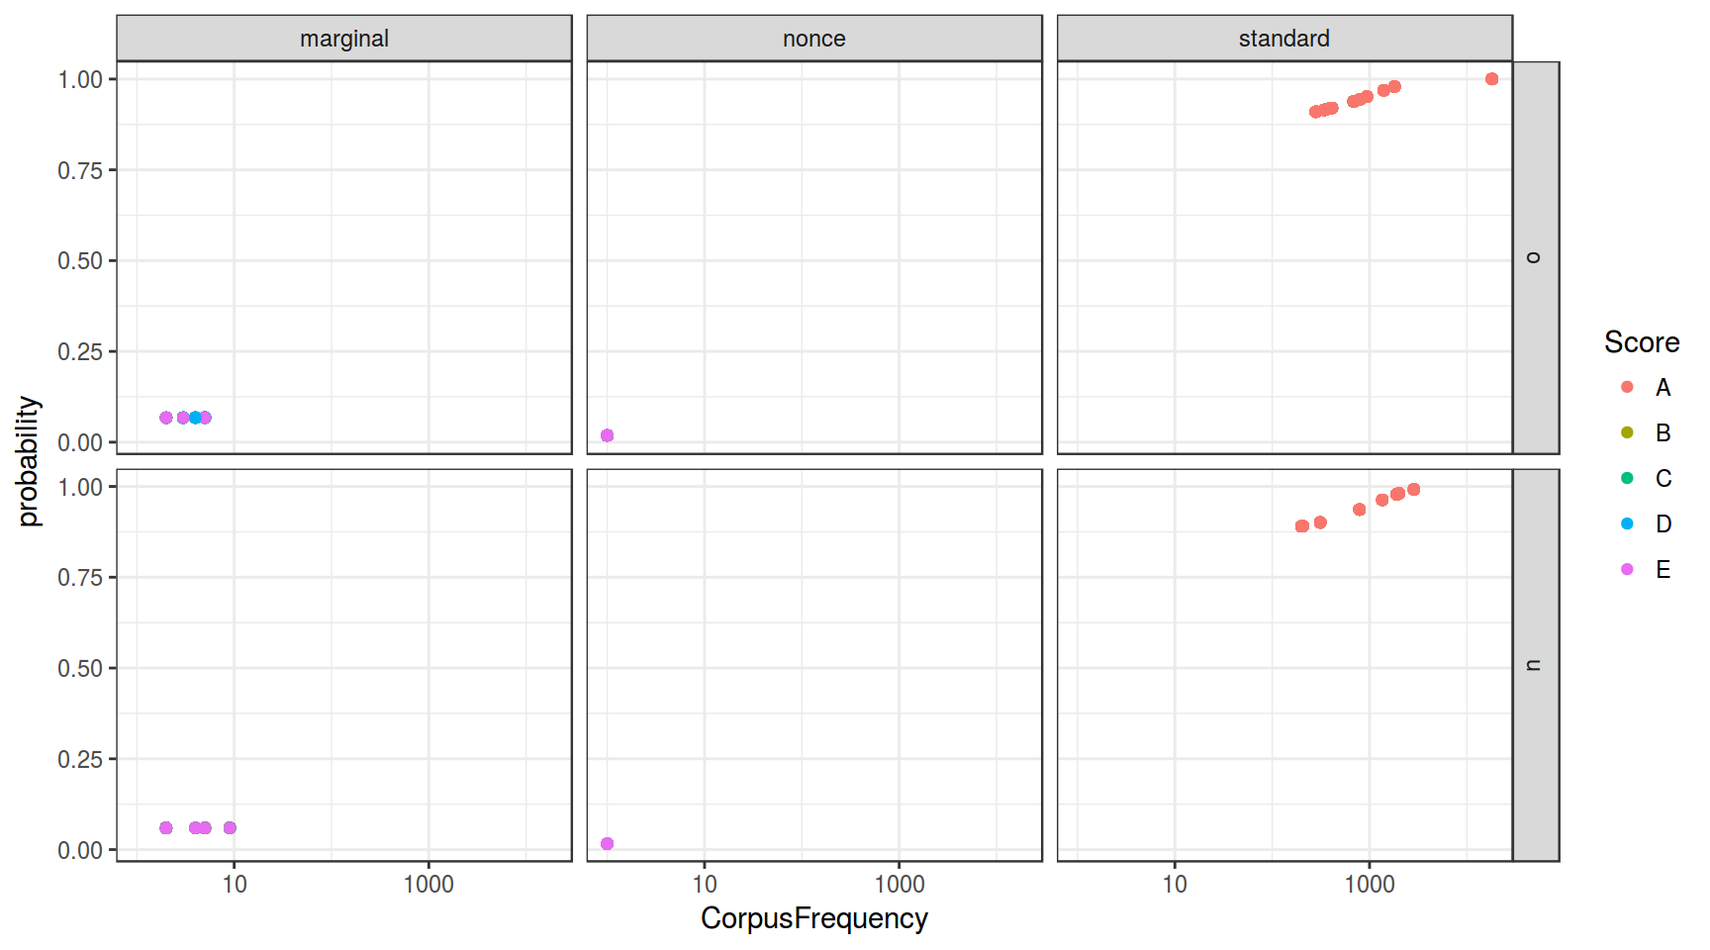
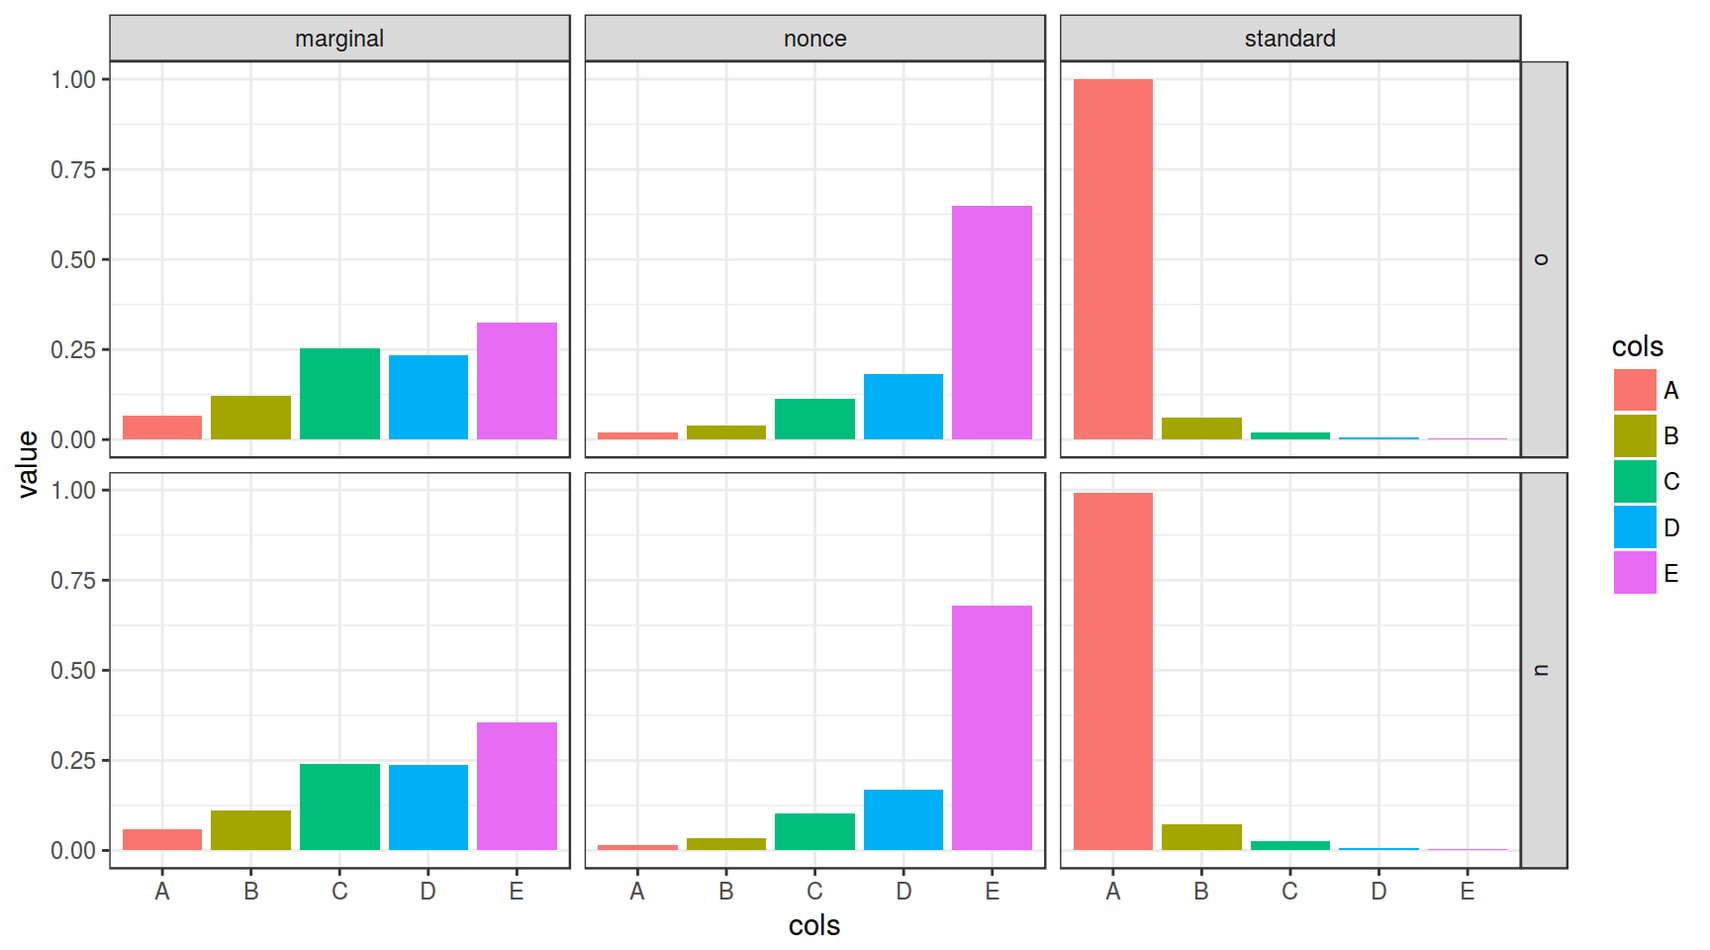
correct site

diff --git a/docs/9_logit_multinom.html b/docs/9_logit_multinom.html
@@ -458,8 +458,8 @@ ej_n_cons <span class="op">%&gt;%</span><span class="st"> </span>
 <span class="st">  </span><span class="kw">theme_bw</span>() -&gt;
 <span class="st">  </span>ej_n_cons_plot
 plotly<span class="op">::</span><span class="kw">ggplotly</span>(ej_n_cons_plot, <span class="dt">tooltip =</span> <span class="kw">c</span>(<span class="st">&quot;label&quot;</span>))</code></pre></div>
-<div id="5bee7dc3824e" style="width:864px;height:480px;" class="plotly html-widget"></div>
-<script type="application/json" data-for="5bee7dc3824e">{"x":{"data":[{"x":[1,1,1,1,1,1,1,1,1,1,1,1,1],"y":[25,21,22,22,24,20,22,24,15,18,17,8,26],"hoverinfo":"y","type":"box","fillcolor":"rgba(248,118,109,1)","marker":{"opacity":null,"outliercolor":"rgba(0,0,0,1)","line":{"width":1.88976377952756,"color":"rgba(0,0,0,1)"},"size":5.66929133858268},"line":{"color":"rgba(51,51,51,1)","width":1.88976377952756},"name":"no","legendgroup":"no","showlegend":true,"xaxis":"x","yaxis":"y","frame":null},{"x":[2,2,2,2,2,2],"y":[28,30,47,43,28,20],"hoverinfo":"y","type":"box","fillcolor":"rgba(0,191,196,1)","marker":{"opacity":null,"outliercolor":"rgba(0,0,0,1)","line":{"width":1.88976377952756,"color":"rgba(0,0,0,1)"},"size":5.66929133858268},"line":{"color":"rgba(51,51,51,1)","width":1.88976377952756},"name":"yes","legendgroup":"yes","showlegend":true,"xaxis":"x","yaxis":"y","frame":null},{"x":[1.1066982479766,0.854029318504036,0.792737479135394,0.902731301821768,0.881715437397361,0.838206837140024,0.782255500741303,1.04387353342026,0.747651336342096,0.604227824322879,0.895112157985568,1.30437159072608,0.846442006528378],"y":[24.7903130279854,20.703320014663,21.8558981284499,22.0684014329687,24.1297166135162,20.3128558216616,21.6553634099662,24.356984825246,15.1988011974841,18.1247940950096,16.7731543777511,7.91394619513303,25.860515973717],"text":["language: Turkish","language: Korean","language: Tiwi","language: Liberia Kpelle","language: Tulu","language: Mapudungun","language: Kiowa","language: Paraguayan Guarani","language: Japanese","language: Yoruba","language: Finnish","language: Hawaiian","language: Hungarian"],"type":"scatter","mode":"markers","marker":{"autocolorscale":false,"color":"rgba(248,118,109,1)","opacity":1,"size":5.66929133858268,"symbol":"circle","line":{"width":1.88976377952756,"color":"rgba(0,0,0,1)"}},"hoveron":"points","name":"no","legendgroup":"no","showlegend":false,"xaxis":"x","yaxis":"y","hoverinfo":"text","frame":null},{"x":[1.96764276791364,1.94457779508084,1.92846065163612,2.37182192448527,1.71347897872329,1.92720407880843],"y":[27.9884643495083,30.2781472267583,46.9522076288238,43.0064092697576,28.3999343894422,19.8432782977819],"text":["language: Georgian","language: Amharic","language: Sandawe","language: Tlingit","language: Lakota","language: Yucatec Maya"],"type":"scatter","mode":"markers","marker":{"autocolorscale":false,"color":"rgba(0,191,196,1)","opacity":1,"size":5.66929133858268,"symbol":"circle","line":{"width":1.88976377952756,"color":"rgba(0,0,0,1)"}},"hoveron":"points","name":"yes","legendgroup":"yes","showlegend":false,"xaxis":"x","yaxis":"y","hoverinfo":"text","frame":null}],"layout":{"margin":{"t":29.1506849315069,"r":7.30593607305936,"b":43.1050228310502,"l":37.2602739726027},"plot_bgcolor":"rgba(255,255,255,1)","paper_bgcolor":"rgba(255,255,255,1)","font":{"color":"rgba(0,0,0,1)","family":"","size":14.6118721461187},"xaxis":{"domain":[0,1],"type":"linear","autorange":false,"tickmode":"array","range":[0.4,2.6],"ticktext":["no","yes"],"tickvals":[1,2],"ticks":"outside","tickcolor":"rgba(51,51,51,1)","ticklen":3.65296803652968,"tickwidth":0.66417600664176,"showticklabels":true,"tickfont":{"color":"rgba(77,77,77,1)","family":"","size":11.689497716895},"tickangle":-0,"showline":false,"linecolor":null,"linewidth":0,"showgrid":true,"gridcolor":"rgba(235,235,235,1)","gridwidth":0.66417600664176,"zeroline":false,"anchor":"y","title":"ejectives","titlefont":{"color":"rgba(0,0,0,1)","family":"","size":14.6118721461187},"hoverformat":".2f"},"yaxis":{"domain":[0,1],"type":"linear","autorange":false,"tickmode":"array","range":[5.95964350488968,48.9543026902433],"ticktext":["10","20","30","40"],"tickvals":[10,20,30,40],"ticks":"outside","tickcolor":"rgba(51,51,51,1)","ticklen":3.65296803652968,"tickwidth":0.66417600664176,"showticklabels":true,"tickfont":{"color":"rgba(77,77,77,1)","family":"","size":11.689497716895},"tickangle":-0,"showline":false,"linecolor":null,"linewidth":0,"showgrid":true,"gridcolor":"rgba(235,235,235,1)","gridwidth":0.66417600664176,"zeroline":false,"anchor":"x","title":"consonants","titlefont":{"color":"rgba(0,0,0,1)","family":"","size":14.6118721461187},"hoverformat":".2f"},"shapes":[{"type":"rect","fillcolor":"transparent","line":{"color":"rgba(51,51,51,1)","width":0.66417600664176,"linetype":"solid"},"yref":"paper","xref":"paper","x0":0,"x1":1,"y0":0,"y1":1}],"showlegend":true,"legend":{"bgcolor":"rgba(255,255,255,1)","bordercolor":"transparent","borderwidth":1.88976377952756,"font":{"color":"rgba(0,0,0,1)","family":"","size":11.689497716895},"y":0.913385826771654},"annotations":[{"text":"ejectives","x":1.02,"y":1,"showarrow":false,"ax":0,"ay":0,"font":{"color":"rgba(0,0,0,1)","family":"","size":14.6118721461187},"xref":"paper","yref":"paper","textangle":-0,"xanchor":"left","yanchor":"bottom","legendTitle":true}],"hovermode":"closest"},"source":"A","attrs":{"5bee383a435":{"x":{},"y":{},"fill":{},"label":{},"type":"ggplotly"},"5bee45d30c81":{"x":{},"y":{},"fill":{},"label":{}}},"cur_data":"5bee383a435","visdat":{"5bee383a435":["function (y) ","x"],"5bee45d30c81":["function (y) ","x"]},"config":{"modeBarButtonsToAdd":[{"name":"Collaborate","icon":{"width":1000,"ascent":500,"descent":-50,"path":"M487 375c7-10 9-23 5-36l-79-259c-3-12-11-23-22-31-11-8-22-12-35-12l-263 0c-15 0-29 5-43 15-13 10-23 23-28 37-5 13-5 25-1 37 0 0 0 3 1 7 1 5 1 8 1 11 0 2 0 4-1 6 0 3-1 5-1 6 1 2 2 4 3 6 1 2 2 4 4 6 2 3 4 5 5 7 5 7 9 16 13 26 4 10 7 19 9 26 0 2 0 5 0 9-1 4-1 6 0 8 0 2 2 5 4 8 3 3 5 5 5 7 4 6 8 15 12 26 4 11 7 19 7 26 1 1 0 4 0 9-1 4-1 7 0 8 1 2 3 5 6 8 4 4 6 6 6 7 4 5 8 13 13 24 4 11 7 20 7 28 1 1 0 4 0 7-1 3-1 6-1 7 0 2 1 4 3 6 1 1 3 4 5 6 2 3 3 5 5 6 1 2 3 5 4 9 2 3 3 7 5 10 1 3 2 6 4 10 2 4 4 7 6 9 2 3 4 5 7 7 3 2 7 3 11 3 3 0 8 0 13-1l0-1c7 2 12 2 14 2l218 0c14 0 25-5 32-16 8-10 10-23 6-37l-79-259c-7-22-13-37-20-43-7-7-19-10-37-10l-248 0c-5 0-9-2-11-5-2-3-2-7 0-12 4-13 18-20 41-20l264 0c5 0 10 2 16 5 5 3 8 6 10 11l85 282c2 5 2 10 2 17 7-3 13-7 17-13z m-304 0c-1-3-1-5 0-7 1-1 3-2 6-2l174 0c2 0 4 1 7 2 2 2 4 4 5 7l6 18c0 3 0 5-1 7-1 1-3 2-6 2l-173 0c-3 0-5-1-8-2-2-2-4-4-4-7z m-24-73c-1-3-1-5 0-7 2-2 3-2 6-2l174 0c2 0 5 0 7 2 3 2 4 4 5 7l6 18c1 2 0 5-1 6-1 2-3 3-5 3l-174 0c-3 0-5-1-7-3-3-1-4-4-5-6z"},"click":"function(gd) { \n        // is this being viewed in RStudio?\n        if (location.search == '?viewer_pane=1') {\n          alert('To learn about plotly for collaboration, visit:\\n https://cpsievert.github.io/plotly_book/plot-ly-for-collaboration.html');\n        } else {\n          window.open('https://cpsievert.github.io/plotly_book/plot-ly-for-collaboration.html', '_blank');\n        }\n      }"}],"cloud":false},"highlight":{"on":"plotly_click","persistent":false,"dynamic":false,"selectize":false,"opacityDim":0.2,"selected":{"opacity":1}},"base_url":"https://plot.ly"},"evals":["config.modeBarButtonsToAdd.0.click"],"jsHooks":{"render":[{"code":"function(el, x) { var ctConfig = crosstalk.var('plotlyCrosstalkOpts').set({\"on\":\"plotly_click\",\"persistent\":false,\"dynamic\":false,\"selectize\":false,\"opacityDim\":0.2,\"selected\":{\"opacity\":1}}); }","data":null}]}}</script>
+<div id="62e24ef594be" style="width:864px;height:480px;" class="plotly html-widget"></div>
+<script type="application/json" data-for="62e24ef594be">{"x":{"data":[{"x":[1,1,1,1,1,1,1,1,1,1,1,1,1],"y":[25,21,22,22,24,20,22,24,15,18,17,8,26],"hoverinfo":"y","type":"box","fillcolor":"rgba(248,118,109,1)","marker":{"opacity":null,"outliercolor":"rgba(0,0,0,1)","line":{"width":1.88976377952756,"color":"rgba(0,0,0,1)"},"size":5.66929133858268},"line":{"color":"rgba(51,51,51,1)","width":1.88976377952756},"name":"no","legendgroup":"no","showlegend":true,"xaxis":"x","yaxis":"y","frame":null},{"x":[2,2,2,2,2,2],"y":[28,30,47,43,28,20],"hoverinfo":"y","type":"box","fillcolor":"rgba(0,191,196,1)","marker":{"opacity":null,"outliercolor":"rgba(0,0,0,1)","line":{"width":1.88976377952756,"color":"rgba(0,0,0,1)"},"size":5.66929133858268},"line":{"color":"rgba(51,51,51,1)","width":1.88976377952756},"name":"yes","legendgroup":"yes","showlegend":true,"xaxis":"x","yaxis":"y","frame":null},{"x":[1.31490569915622,1.32046835180372,0.98902173768729,1.06476635653526,1.25749823991209,0.941733597777784,1.36117551568896,0.789502222463489,0.652085558138788,1.15315159540623,1.04313357882202,1.00784312747419,0.790647603198886],"y":[25.016092029959,21.3434476401657,22.0553445560858,21.6588985731825,24.291866433993,20.2672301612794,21.7120628912002,24.3489181470126,14.7862696731463,18.1290197918192,17.1494080107659,7.80674621909857,25.9400683971122],"text":["language: Turkish","language: Korean","language: Tiwi","language: Liberia Kpelle","language: Tulu","language: Mapudungun","language: Kiowa","language: Paraguayan Guarani","language: Japanese","language: Yoruba","language: Finnish","language: Hawaiian","language: Hungarian"],"type":"scatter","mode":"markers","marker":{"autocolorscale":false,"color":"rgba(248,118,109,1)","opacity":1,"size":5.66929133858268,"symbol":"circle","line":{"width":1.88976377952756,"color":"rgba(0,0,0,1)"}},"hoveron":"points","name":"no","legendgroup":"no","showlegend":false,"xaxis":"x","yaxis":"y","hoverinfo":"text","frame":null},{"x":[2.21810620240867,1.8743648480624,1.94659107215703,1.80022534485906,2.15752339288592,1.97715062759817],"y":[27.849723476544,29.8056006979197,46.8232413975522,43.1511264244094,27.7421417897567,20.1018043497577],"text":["language: Georgian","language: Amharic","language: Sandawe","language: Tlingit","language: Lakota","language: Yucatec Maya"],"type":"scatter","mode":"markers","marker":{"autocolorscale":false,"color":"rgba(0,191,196,1)","opacity":1,"size":5.66929133858268,"symbol":"circle","line":{"width":1.88976377952756,"color":"rgba(0,0,0,1)"}},"hoveron":"points","name":"yes","legendgroup":"yes","showlegend":false,"xaxis":"x","yaxis":"y","hoverinfo":"text","frame":null}],"layout":{"margin":{"t":29.1506849315069,"r":7.30593607305936,"b":43.1050228310502,"l":37.2602739726027},"plot_bgcolor":"rgba(255,255,255,1)","paper_bgcolor":"rgba(255,255,255,1)","font":{"color":"rgba(0,0,0,1)","family":"","size":14.6118721461187},"xaxis":{"domain":[0,1],"type":"linear","autorange":false,"tickmode":"array","range":[0.4,2.6],"ticktext":["no","yes"],"tickvals":[1,2],"ticks":"outside","tickcolor":"rgba(51,51,51,1)","ticklen":3.65296803652968,"tickwidth":0.66417600664176,"showticklabels":true,"tickfont":{"color":"rgba(77,77,77,1)","family":"","size":11.689497716895},"tickangle":-0,"showline":false,"linecolor":null,"linewidth":0,"showgrid":true,"gridcolor":"rgba(235,235,235,1)","gridwidth":0.66417600664176,"zeroline":false,"anchor":"y","title":"ejectives","titlefont":{"color":"rgba(0,0,0,1)","family":"","size":14.6118721461187},"hoverformat":".2f"},"yaxis":{"domain":[0,1],"type":"linear","autorange":false,"tickmode":"array","range":[5.8470835300535,48.9596626890451],"ticktext":["10","20","30","40"],"tickvals":[10,20,30,40],"ticks":"outside","tickcolor":"rgba(51,51,51,1)","ticklen":3.65296803652968,"tickwidth":0.66417600664176,"showticklabels":true,"tickfont":{"color":"rgba(77,77,77,1)","family":"","size":11.689497716895},"tickangle":-0,"showline":false,"linecolor":null,"linewidth":0,"showgrid":true,"gridcolor":"rgba(235,235,235,1)","gridwidth":0.66417600664176,"zeroline":false,"anchor":"x","title":"consonants","titlefont":{"color":"rgba(0,0,0,1)","family":"","size":14.6118721461187},"hoverformat":".2f"},"shapes":[{"type":"rect","fillcolor":"transparent","line":{"color":"rgba(51,51,51,1)","width":0.66417600664176,"linetype":"solid"},"yref":"paper","xref":"paper","x0":0,"x1":1,"y0":0,"y1":1}],"showlegend":true,"legend":{"bgcolor":"rgba(255,255,255,1)","bordercolor":"transparent","borderwidth":1.88976377952756,"font":{"color":"rgba(0,0,0,1)","family":"","size":11.689497716895},"y":0.913385826771654},"annotations":[{"text":"ejectives","x":1.02,"y":1,"showarrow":false,"ax":0,"ay":0,"font":{"color":"rgba(0,0,0,1)","family":"","size":14.6118721461187},"xref":"paper","yref":"paper","textangle":-0,"xanchor":"left","yanchor":"bottom","legendTitle":true}],"hovermode":"closest"},"source":"A","attrs":{"62e23ffbc4c3":{"x":{},"y":{},"fill":{},"label":{},"type":"ggplotly"},"62e212b2494c":{"x":{},"y":{},"fill":{},"label":{}}},"cur_data":"62e23ffbc4c3","visdat":{"62e23ffbc4c3":["function (y) ","x"],"62e212b2494c":["function (y) ","x"]},"config":{"modeBarButtonsToAdd":[{"name":"Collaborate","icon":{"width":1000,"ascent":500,"descent":-50,"path":"M487 375c7-10 9-23 5-36l-79-259c-3-12-11-23-22-31-11-8-22-12-35-12l-263 0c-15 0-29 5-43 15-13 10-23 23-28 37-5 13-5 25-1 37 0 0 0 3 1 7 1 5 1 8 1 11 0 2 0 4-1 6 0 3-1 5-1 6 1 2 2 4 3 6 1 2 2 4 4 6 2 3 4 5 5 7 5 7 9 16 13 26 4 10 7 19 9 26 0 2 0 5 0 9-1 4-1 6 0 8 0 2 2 5 4 8 3 3 5 5 5 7 4 6 8 15 12 26 4 11 7 19 7 26 1 1 0 4 0 9-1 4-1 7 0 8 1 2 3 5 6 8 4 4 6 6 6 7 4 5 8 13 13 24 4 11 7 20 7 28 1 1 0 4 0 7-1 3-1 6-1 7 0 2 1 4 3 6 1 1 3 4 5 6 2 3 3 5 5 6 1 2 3 5 4 9 2 3 3 7 5 10 1 3 2 6 4 10 2 4 4 7 6 9 2 3 4 5 7 7 3 2 7 3 11 3 3 0 8 0 13-1l0-1c7 2 12 2 14 2l218 0c14 0 25-5 32-16 8-10 10-23 6-37l-79-259c-7-22-13-37-20-43-7-7-19-10-37-10l-248 0c-5 0-9-2-11-5-2-3-2-7 0-12 4-13 18-20 41-20l264 0c5 0 10 2 16 5 5 3 8 6 10 11l85 282c2 5 2 10 2 17 7-3 13-7 17-13z m-304 0c-1-3-1-5 0-7 1-1 3-2 6-2l174 0c2 0 4 1 7 2 2 2 4 4 5 7l6 18c0 3 0 5-1 7-1 1-3 2-6 2l-173 0c-3 0-5-1-8-2-2-2-4-4-4-7z m-24-73c-1-3-1-5 0-7 2-2 3-2 6-2l174 0c2 0 5 0 7 2 3 2 4 4 5 7l6 18c1 2 0 5-1 6-1 2-3 3-5 3l-174 0c-3 0-5-1-7-3-3-1-4-4-5-6z"},"click":"function(gd) { \n        // is this being viewed in RStudio?\n        if (location.search == '?viewer_pane=1') {\n          alert('To learn about plotly for collaboration, visit:\\n https://cpsievert.github.io/plotly_book/plot-ly-for-collaboration.html');\n        } else {\n          window.open('https://cpsievert.github.io/plotly_book/plot-ly-for-collaboration.html', '_blank');\n        }\n      }"}],"cloud":false},"highlight":{"on":"plotly_click","persistent":false,"dynamic":false,"selectize":false,"opacityDim":0.2,"selected":{"opacity":1}},"base_url":"https://plot.ly"},"evals":["config.modeBarButtonsToAdd.0.click"],"jsHooks":{"render":[{"code":"function(el, x) { var ctConfig = crosstalk.var('plotlyCrosstalkOpts').set({\"on\":\"plotly_click\",\"persistent\":false,\"dynamic\":false,\"selectize\":false,\"opacityDim\":0.2,\"selected\":{\"opacity\":1}}); }","data":null}]}}</script>
 </div>
 <div id="----" class="section level4">
 <h4>0.3 Данные: исследование маргинальных русских глаголов</h4>
@@ -828,14 +828,13 @@ lm_<span class="dv">0</span></code></pre></div>
 ## 4 0.01855865 0.039108932 0.113894002 0.1808984667 0.6475399508
 ## 5 0.90986002 0.060436871 0.020738032 0.0055351143 0.0034299624
 ## 6 0.91496678 0.057117954 0.019500629 0.0051963745 0.0032182669</code></pre>
-<div class="sourceCode"><pre class="sourceCode r"><code class="sourceCode r">marginal_verbs<span class="op">$</span>probability &lt;-<span class="st"> </span><span class="kw">predict</span>(ordinal, <span class="dt">type =</span> <span class="st">&quot;probs&quot;</span>)
+<div class="sourceCode"><pre class="sourceCode r"><code class="sourceCode r">marginal_verbs &lt;-<span class="st"> </span><span class="kw">cbind</span>(marginal_verbs, <span class="kw">predict</span>(ordinal, <span class="dt">type =</span> <span class="st">&quot;probs&quot;</span>))
 marginal_verbs <span class="op">%&gt;%</span>
-<span class="st">  </span><span class="kw">mutate</span>(<span class="dt">CorpusFrequency =</span> CorpusFrequency<span class="op">+</span><span class="dv">1</span>) <span class="op">%&gt;%</span><span class="st"> </span>
-<span class="st">  </span><span class="kw">ggplot</span>(<span class="kw">aes</span>(CorpusFrequency, probability, <span class="dt">color =</span> Score))<span class="op">+</span>
-<span class="st">  </span><span class="kw">geom_point</span>()<span class="op">+</span>
+<span class="st">  </span><span class="kw">gather</span>(cols, value, A<span class="op">:</span>E) <span class="op">%&gt;%</span><span class="st"> </span>
+<span class="st">  </span><span class="kw">ggplot</span>(<span class="kw">aes</span>(<span class="dt">x =</span> cols, <span class="dt">y =</span> value, <span class="dt">fill =</span> cols)) <span class="op">+</span>
+<span class="st">  </span><span class="kw">geom_col</span>(<span class="dt">position =</span> <span class="st">&quot;dodge&quot;</span>)<span class="op">+</span>
 <span class="st">  </span><span class="kw">facet_grid</span>(Prefix<span class="op">~</span>WordType)<span class="op">+</span>
-<span class="st">  </span><span class="kw">theme_bw</span>()<span class="op">+</span>
-<span class="st">  </span><span class="kw">scale_x_log10</span>()</code></pre></div>
+<span class="st">  </span><span class="kw">theme_bw</span>()</code></pre></div>
 <p><img src="9_logit_multinom_files/figure-html/unnamed-chunk-20-1.png" width="864" /></p>
 <div class="parallax">
 

diff --git a/docs/index.html b/docs/index.html
@@ -326,6 +326,16 @@ $(document).ready(function () {
 <pre><code>## [1] &#39;0.70&#39;</code></pre>
 <div class="sourceCode"><pre class="sourceCode r"><code class="sourceCode r"><span class="kw">packageVersion</span>(<span class="st">&quot;MASS&quot;</span>)</code></pre></div>
 <pre><code>## [1] &#39;7.3.49&#39;</code></pre>
+<div class="sourceCode"><pre class="sourceCode r"><code class="sourceCode r"><span class="kw">packageVersion</span>(<span class="st">&quot;ggfortify&quot;</span>)</code></pre></div>
+<pre><code>## [1] &#39;0.4.3&#39;</code></pre>
+<div class="sourceCode"><pre class="sourceCode r"><code class="sourceCode r"><span class="kw">packageVersion</span>(<span class="st">&quot;lme4&quot;</span>)</code></pre></div>
+<pre><code>## [1] &#39;1.1.15&#39;</code></pre>
+<div class="sourceCode"><pre class="sourceCode r"><code class="sourceCode r"><span class="kw">packageVersion</span>(<span class="st">&quot;lmerTest&quot;</span>)</code></pre></div>
+<pre><code>## [1] &#39;2.0.36&#39;</code></pre>
+<div class="sourceCode"><pre class="sourceCode r"><code class="sourceCode r"><span class="kw">packageVersion</span>(<span class="st">&quot;pscl&quot;</span>)</code></pre></div>
+<pre><code>## [1] &#39;1.5.2&#39;</code></pre>
+<div class="sourceCode"><pre class="sourceCode r"><code class="sourceCode r"><span class="kw">packageVersion</span>(<span class="st">&quot;nnet&quot;</span>)</code></pre></div>
+<pre><code>## [1] &#39;7.3.12&#39;</code></pre>
 </div>
 <div id="---" class="section level3">
 <h3>Как выполнять домашние задания?</h3>
@@ -360,13 +370,13 @@ $(document).ready(function () {
 <li>фрагменты кода, посвященные конкретным заданиям должны выводить ответ в консоль.</li>
 </ul>
 <p>Календарь можно скачать <a href="https://raw.githubusercontent.com/agricolamz/2018_data_analysis_for_linguists/master/data_analysis_calendar.csv">в формате <code>.csv</code></a> и импортировать в Google Calendar, MS Outlook и т. п.</p>
-<div id="htmlwidget-d667e03273616ccfec31" class="timevis html-widget" style="width:672px;height:480px;">
+<div id="htmlwidget-cf9343df5f3bb7eb7c54" class="timevis html-widget" style="width:672px;height:480px;">
 <div class="btn-group zoom-menu">
 <button type="button" class="btn btn-default btn-lg zoom-in" title="Zoom in">+</button>
 <button type="button" class="btn btn-default btn-lg zoom-out" title="Zoom out">-</button>
 </div>
 </div>
-<script type="application/json" data-for="htmlwidget-d667e03273616ccfec31">{"x":{"items":[{"start":"2018-01-30","content":"<a href = 'https://agricolamz.github.io/2018_data_analysis_for_linguists/1_tidyverse.html'>1 tidyverse<\/a> <br>Tue 30.1"},{"start":"2018-02-06","content":"<a href = 'https://agricolamz.github.io/2018_data_analysis_for_linguists/2_agreement.html'>2 agreement<\/a> <br>Tue 6.2"},{"start":"2018-02-13","content":"<a href = 'https://agricolamz.github.io/2018_data_analysis_for_linguists/3_binomial.html'>3 binomial<\/a> <br>Tue 13.2"},{"start":"2018-02-20","content":"<a href = 'https://agricolamz.github.io/2018_data_analysis_for_linguists/4_binomial_ci.html'>4 binomial ci<\/a> <br>Tue 20.2"},{"start":"2018-02-27","content":"<a href = 'https://agricolamz.github.io/2018_data_analysis_for_linguists/5_PCA.html'>5 PCA<\/a> <br>Tue 27.2"},{"start":"2018-03-06","content":"<a href = 'https://agricolamz.github.io/2018_data_analysis_for_linguists/6_CA_MCA.html'>6 CA MCA<\/a> <br>Tue 6.3"},{"start":"2018-03-13","content":"<a href = 'https://agricolamz.github.io/2018_data_analysis_for_linguists/8_more_linear_regression.html'>8 more linear regression<\/a> <br>Tue 13.3"},{"start":"2018-03-20","content":"<a href = 'https://agricolamz.github.io/2018_data_analysis_for_linguists/9_logit_multinom.html'>9 logit multinom<\/a> <br>Tue 20.3"},{"start":"2018-02-20","content":"<a href = 'https://agricolamz.github.io/2018_data_analysis_for_linguists/HW_2.html'>HW 2 deadline<\/a> <br>Tue 20.2"},{"start":"2018-02-27","content":"<a href = 'https://agricolamz.github.io/2018_data_analysis_for_linguists/HW_3.html'>HW 3 deadline<\/a> <br>Tue 27.2"},{"start":"2018-03-06","content":"<a href = 'https://agricolamz.github.io/2018_data_analysis_for_linguists/HW_4.html'>HW 4 deadline<\/a> <br>Tue 6.3"},{"start":"2018-03-20","content":"<a href = 'https://agricolamz.github.io/2018_data_analysis_for_linguists/HW_5.html'>HW 5 deadline<\/a> <br>Tue 20.3"}],"groups":null,"showZoom":true,"zoomFactor":0.5,"fit":true,"options":[],"height":null,"api":[]},"evals":[],"jsHooks":[]}</script>
+<script type="application/json" data-for="htmlwidget-cf9343df5f3bb7eb7c54">{"x":{"items":[{"start":"2018-01-30","content":"<a href = 'https://agricolamz.github.io/2018_data_analysis_for_linguists/1_tidyverse.html'>1 tidyverse<\/a> <br>Tue 30.1"},{"start":"2018-02-06","content":"<a href = 'https://agricolamz.github.io/2018_data_analysis_for_linguists/2_agreement.html'>2 agreement<\/a> <br>Tue 6.2"},{"start":"2018-02-13","content":"<a href = 'https://agricolamz.github.io/2018_data_analysis_for_linguists/3_binomial.html'>3 binomial<\/a> <br>Tue 13.2"},{"start":"2018-02-20","content":"<a href = 'https://agricolamz.github.io/2018_data_analysis_for_linguists/4_binomial_ci.html'>4 binomial ci<\/a> <br>Tue 20.2"},{"start":"2018-02-27","content":"<a href = 'https://agricolamz.github.io/2018_data_analysis_for_linguists/5_PCA.html'>5 PCA<\/a> <br>Tue 27.2"},{"start":"2018-03-06","content":"<a href = 'https://agricolamz.github.io/2018_data_analysis_for_linguists/6_CA_MCA.html'>6 CA MCA<\/a> <br>Tue 6.3"},{"start":"2018-03-13","content":"<a href = 'https://agricolamz.github.io/2018_data_analysis_for_linguists/8_more_linear_regression.html'>8 more linear regression<\/a> <br>Tue 13.3"},{"start":"2018-03-20","content":"<a href = 'https://agricolamz.github.io/2018_data_analysis_for_linguists/9_logit_multinom.html'>9 logit multinom<\/a> <br>Tue 20.3"},{"start":"2018-02-20","content":"<a href = 'https://agricolamz.github.io/2018_data_analysis_for_linguists/HW_2.html'>HW 2 deadline<\/a> <br>Tue 20.2"},{"start":"2018-02-27","content":"<a href = 'https://agricolamz.github.io/2018_data_analysis_for_linguists/HW_3.html'>HW 3 deadline<\/a> <br>Tue 27.2"},{"start":"2018-03-06","content":"<a href = 'https://agricolamz.github.io/2018_data_analysis_for_linguists/HW_4.html'>HW 4 deadline<\/a> <br>Tue 6.3"},{"start":"2018-03-20","content":"<a href = 'https://agricolamz.github.io/2018_data_analysis_for_linguists/HW_5.html'>HW 5 deadline<\/a> <br>Tue 20.3"}],"groups":null,"showZoom":true,"zoomFactor":0.5,"fit":true,"options":[],"height":null,"api":[]},"evals":[],"jsHooks":[]}</script>
 </div>
 
 <br><br><br>
